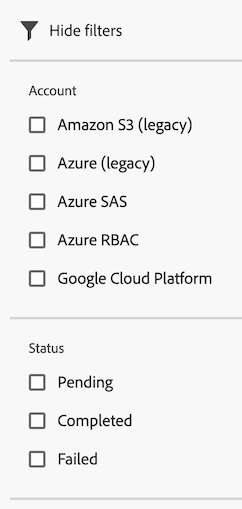
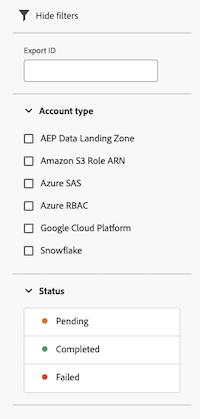
Updates and cleanup

diff --git a/help/components/exports/manage-exports.md b/help/components/exports/manage-exports.md
@@ -31,8 +31,8 @@ To find information you need, you can either filter the list of exports or searc
 
    |Filter | Description |
    |---------|----------|
-   | [!UICONTROL **Account type**] | The account type that the export is associated with. The following account types are available: <ul><li>[!UICONTROL **AEP Data Landing Zone**]</li><li>[!UICONTROL **Amazon S3 Role ARN**]</li><li>[!UICONTROL **Google Cloud Platform**]</li><li>[!UICONTROL **Azure SAS**]</li><li>[!UICONTROL **Azure RBAC**]</li><li>[!UICONTROL **Snowflake**]</li></ul>. | 
-   | [!UICONTROL **Status**] | The status of the export. The following statuses are available: <ul><li>[!UICONTROL **Active**]: Indicates that a scheduled export has not yet expired. </li><li>[!UICONTROL **Completed**]: Indicates that an export has successfully exported. For scheduled exports, this indicates that the schedule has expired.</li><li>[!UICONTROL **Failed**]<p>The following situations can result in a failed export. Hover over the Failed status to see details about the failure. <ul><li>Scheduled export expiration</li><li>Row limit reached for scheduled export </li></ul> </p></li></ul> | 
+   | [!UICONTROL **Account type**] | The account type that the export is associated with. The following account types are available: <ul><li>[!UICONTROL **AEP Data Landing Zone**]</li><li>[!UICONTROL **Amazon S3 Role ARN**]</li><li>[!UICONTROL **Azure SAS**]</li><li>[!UICONTROL **Azure RBAC**]</li><li>[!UICONTROL **Google Cloud Platform**]</li><li>[!UICONTROL **Snowflake**]</li></ul>. | 
+   | [!UICONTROL **Status**] | The status of the export. The following statuses are available: <ul><li>[!UICONTROL **Active**]: Indicates that a scheduled export has not yet expired, or that a one-time export has not yet completed. </li><li>[!UICONTROL **Complete**]: Indicates that an export has successfully exported. For scheduled exports, this indicates that the schedule has expired.</li><li>[!UICONTROL **Failed**]<p>The following situations can result in a failed export. Hover over the [!UICONTROL **Failed**] status to see details about the failure. <ul><li>Scheduled export expiration</li><li>Row limit reached for scheduled export </li></ul> </p></li></ul> | 
    | [!UICONTROL **Frequency**] | How often the export occurs. The following frequencies are available: <ul><li>[!UICONTROL **One time**]</li><li>[!UICONTROL **Daily**]</li><li>[!UICONTROL **Weekly**]</li><li>[!UICONTROL **Monthly**]</li><li>[!UICONTROL **Yearly**]</li></ul>|
 
    {style="table-layout:auto"}
@@ -51,7 +51,7 @@ You can edit an export's properties, format, scheduling, and location informatio
 
 1. In Customer Journey Analytics, select [!UICONTROL **Components**] > [!UICONTROL **Exports**].
 
-1. On the [!UICONTROL **Exports**] tab, select the export you want to edit.
+1. On the [!UICONTROL **Exports**] tab, select the checkbox next to the export you want to edit.
 
    This option is not available when selecting multiple exports. 
 
@@ -63,7 +63,7 @@ You can duplicate an existing export.
 
 1. In Customer Journey Analytics, select [!UICONTROL **Components**] > [!UICONTROL **Exports**].
 
-1. On the [!UICONTROL **Exports**] tab, select the export you want to duplicate.
+1. On the [!UICONTROL **Exports**] tab, select the checkbox next to the export you want to duplicate.
 
    This option is not available when selecting multiple exports. 
 
@@ -79,7 +79,7 @@ You can manually initiate an export, either for a scheduled export or a one-time
 
 1. In Customer Journey Analytics, select [!UICONTROL **Components**] > [!UICONTROL **Exports**].
 
-1. On the [!UICONTROL **Exports**] tab, select the export you want to run.
+1. On the [!UICONTROL **Exports**] tab, select the checkbox next to the export you want to run.
 
    This option is not available when selecting multiple exports. 
 
@@ -91,11 +91,11 @@ When you apply tags to an export, you can view those tags in the [!UICONTROL Tag
 
 1. In Customer Journey Analytics, select [!UICONTROL **Components**] > [!UICONTROL **Exports**].
 
-1. On the [!UICONTROL **Exports**] tab, select one or more exports that you want to tag.
+1. On the [!UICONTROL **Exports**] tab, select the checkbox next to one or more exports that you want to tag.
 
-1. Select [!UICONTROL **Tag**].
+1. Select [!UICONTROL **Edit tags**].
 
-1. In the Tag export dialog, type the name a tag to create a new tag, or choose an existing tag from the drop-down menu.
+1. In the [!UICONTROL **Tag export**] dialog, type the name of a tag to create a new tag, or choose an existing tag from the drop-down menu.
 
    Any common tags between the selected exports are shown in the tag dialog. <!-- what happens if one export has a tag and another doesn't? Is the tag removed if you don't select it? I'm guessing not, but maybe check -->
 
@@ -107,7 +107,7 @@ You can delete exports from the Exports page. Scheduled exports that are deleted
 
 1. In Customer Journey Analytics, select [!UICONTROL **Components**] > [!UICONTROL **Exports**].
 
-1. On the [!UICONTROL **Exports**] tab, select one or more exports that you want to delete.
+1. On the [!UICONTROL **Exports**] tab, select the checkbox next to one or more exports that you want to delete.
 
 1. Select [!UICONTROL **Delete**], then select [!UICONTROL **Delete**] when you see the confirmation message.
 
@@ -117,17 +117,19 @@ You can add or remove columns on the [!UICONTROL Exports] tab to configure what 
 
 Select a column header to sort the exports by that column. By default, exports are sorted by the date and time the export was last modified.
 
-1. Select the **Customize table** icon ![customize table](assets/customize-table-icon.png) in the upper-right of the [!UICONTROL Exports] page.
+1. In Customer Journey Analytics, select [!UICONTROL **Components**] > [!UICONTROL **Exports**].
+
+1. On the [!UICONTROL **Exports**] tab, select the **Customize table** icon ![customize table](assets/customize-table-icon.png) in the upper-right of the [!UICONTROL Exports] page.
 
    The following columns are available:
 
    |Available column | Description |
    |---------|----------|
    | Name | The name of the export. Users give exports a name when they create them, as described in [Export Customer Journey Analytics reports to the cloud](/help/analysis-workspace/export/export-cloud.md).  | 
-   | ID | The ID automatically assigned to the export when it is created. <!-- True? --> | 
-   | Status | The status of the export. Available statuses are [!UICONTROL Active], [!UICONTROL Paused], [!UICONTROL Completed], and [!UICONTROL Failed].<p> **Note:** For information about troubleshooting failed exports, see [Troubleshoot failed exports](/help/components/exports/troubleshoot-exports.md).</p> |
-   | Data view name | The name of the data view associated with the export. Users can select the data view when they create the export, as described in [Export Customer Journey Analytics reports to the cloud](/help/analysis-workspace/export/export-cloud.md). |
-   | Status | The status of the export. Available statuses are [!UICONTROL Pending], [!UICONTROL Delivered], and [!UICONTROL Failed]. |
+   | ID | The ID automatically assigned to the export when it is created. <!-- True? --> |
+   | Data view name | The name of the data view associated with the export. Users can select the data view when they create the export, as described in [Export Customer Journey Analytics reports to the cloud](/help/analysis-workspace/export/export-cloud.md). | 
+   | Status | The status of the export. Available statuses are [!UICONTROL Active], [!UICONTROL Complete], and [!UICONTROL Failed].<p> **Note:** For information about troubleshooting failed exports, see [Troubleshoot failed exports](/help/components/exports/troubleshoot-exports.md).</p> |
+   | Tags | Displays any tags that are applied to the export. For information about how to apply tags to an export, see [Tag an export](#tag-an-export). |
    | Table size (last send) | The size of the export the last time it was sent.  |
    | Created by | The user who created the export. |
    | Created | The date and time the export was created. <!-- true? --> |
@@ -138,7 +140,6 @@ Select a column header to sort the exports by that column. By default, exports a
    | Last sent | The last time the export was sent. |
    | Last modified | The last time the export was modified. Items on the Exports page are sorted by this column by default. |
    | Account type | The type of cloud account where the data was exported. Available account types are [!UICONTROL Amazon S3 Role ARN], [!UICONTROL Google Cloud Platform], [!UICONTROL Azure SAS], [!UICONTROL Azure RBAC], [!UICONTROL Snowflake], and [!UICONTROL Adobe Experience Platform].  |
-   | Tags | Displays any tags that are applied to the export. For information about how to apply tags to an export, see [Tag an export](#tag-an-export). |
 
    {style="table-layout:auto"}
 

diff --git a/help/components/exports/manage-export-logs.md b/help/components/exports/manage-export-logs.md
@@ -31,8 +31,9 @@ To find information you need, you can either filter the list of logs or search f
 
    |Filter | Description |
    |---------|----------|
-   | [!UICONTROL **Account type**] | The account type that the log is associated with. The following account types are available: <ul><li>[!UICONTROL **Adobe Experience Platform Data Landing Zone**]</li><li>[!UICONTROL **Amazon S3 Role ARN**]</li><li>[!UICONTROL **Google Cloud Platform**]</li><li>[!UICONTROL **Azure SAS**]</li><li>[!UICONTROL **Azure RBAC**]</li><li>[!UICONTROL **Snowflake**]</li></ul>. | 
-   | [!UICONTROL **Status**] | The status of the export. The following statuses are available: <ul><li>[!UICONTROL **Pending**]: A specific instance of an export has been started but is not yet complete.<p>Re-running an export that has a status of Pending will delay the export process.</p></li><li>[!UICONTROL **Completed**]: A specific instance of an export has finished processing and is available in the export account.</li><li>[!UICONTROL **Failed**]<p>The following situations can result in a failed export. Hover over the Failed status to see details about the failure. <ul><li>Scheduled export expiration</li><li>Row limit reached for scheduled export </li></ul> </p></li></ul> | 
+   | [!UICONTROL **Export ID**] | Specify the export ID of the export log you want to view. |
+   | [!UICONTROL **Account type**] | The account type that the log is associated with. The following account types are available: <ul><li>[!UICONTROL **AEP Data Landing Zone**]</li><li>[!UICONTROL **Amazon S3 Role ARN**]</li><li>[!UICONTROL **Azure SAS**]</li><li>[!UICONTROL **Azure RBAC**]</li><li>[!UICONTROL **Google Cloud Platform**]</li><li>[!UICONTROL **Snowflake**]</li></ul>. | 
+   | [!UICONTROL **Status**] | The status of the export. The following statuses are available: <ul><li>[!UICONTROL **Pending**]: A specific instance of an export has been started but is not yet complete.<p>Re-running an export that has a status of Pending will delay the export process.</p></li><li>[!UICONTROL **Complete**]: A specific instance of an export has finished processing and is available in the export account.</li><li>[!UICONTROL **Failed**]<p>The following situations can result in a failed export. Hover over the Failed status to see details about the failure. <ul><li>Scheduled export expiration</li><li>Row limit reached for scheduled export </li></ul> </p></li></ul> | 
 
    {style="table-layout:auto"}
 
@@ -42,7 +43,7 @@ To find information you need, you can either filter the list of logs or search f
 
 1. Select the [!UICONTROL **Logs**] tab.
 
-1. In the search tab, begin typing any information associated with the log you're searching for. You can search for data from any column available in the table. 
+1. In the search field, begin typing any information associated with the log you're searching for. You can search for data from any column available in the table. 
 
 <!-- removed for MVP: Retry an export You can re-run the export associated with the selected log, using the data as it was on the day the log was originally exported. This is useful when selecting a log that show a failed export or when selecting a log that was accidentally deleted. 
 
@@ -68,11 +69,11 @@ This option is not available when selecting multiple logs.
 
 1. Locate the log that is associated with the export you want to edit.
 
-1. Select the **Edit export** icon ![export log icon](assets/export-icon.png) next to the log.
+1. Select the **Edit export** icon ![export log icon](assets/export-icon.png) next to the log name.
 
    Or
 
-   Select the log, then select [!UICONTROL **Edit export**].
+   Select the checkbox next to the log, then select [!UICONTROL **Edit export**].
 
 ## Configure columns
 

diff --git a/help/components/exports/manage-export-locations.md b/help/components/exports/manage-export-locations.md
@@ -31,7 +31,7 @@ To find information you need, you can either filter the list of locations or sea
 
    |Filter | Description |
    |---------|----------|
-   | [!UICONTROL **Location type**]<!--should this be changed to Account type?--> | The account type that the location is associated with. The following account types can be available: <ul><li>[!UICONTROL **AEP Data Landing Zone**]</li><li>[!UICONTROL **Amazon S3 Role ARN**]</li><li>[!UICONTROL **Google Cloud Platform**]</li><li>[!UICONTROL **Azure SAS**]</li><li>[!UICONTROL **Azure RBAC**]</li><li>[!UICONTROL **Snowflake**]</li></ul> | 
+   | [!UICONTROL **Location type**]<!--should this be changed to Account type?--> | The account type that the location is associated with. The following account types can be available: <ul><li>[!UICONTROL **AEP Data Landing Zone**]</li><li>[!UICONTROL **Amazon S3 Role ARN**]</li><li>[!UICONTROL **Azure SAS**]</li><li>[!UICONTROL **Azure RBAC**]</li><li>[!UICONTROL **Google Cloud Platform**]</li><li>[!UICONTROL **Snowflake**]</li></ul> | 
    | [!UICONTROL **Account**] | The name of account that the location is associated with. |
    | [!UICONTROL **Created by**] | The email address of the user who created the location. |
 
@@ -43,7 +43,7 @@ To find information you need, you can either filter the list of locations or sea
 
 1. Select the [!UICONTROL **Locations**] tab.
 
-1. In the search tab, begin typing any information associated with the location you're searching for. You can search for data from any column available in the table.
+1. In the search field, begin typing any information associated with the location you're searching for. You can search for data from any column available in the table.
 
 ## Edit locations
 
@@ -51,7 +51,7 @@ To find information you need, you can either filter the list of locations or sea
 
 1. Select the [!UICONTROL **Locations**] tab, then select the location you want to edit.
 
-   <!-- add screenshot? -->
+   ![Edit locations](assets/locations-edit.png)
 
 1. Select [!UICONTROL **Edit**].
 
@@ -71,7 +71,7 @@ To delete a location:
 
 1. Select the [!UICONTROL **Locations**] tab, then select one or more locations that you want to delete.
 
-   <!-- add screenshot? -->
+   ![Edit locations](assets/locations-edit.png)
 
 1. Select [!UICONTROL **Delete**], then select [!UICONTROL **Delete**] again on the confirmation dialog.
 
@@ -86,6 +86,20 @@ To delete a location:
 1. Select [!UICONTROL **View details**] on the account that you want to edit.
 
 1. Make any desired changes, then select [!UICONTROL **Save**].
+
+## View account keys
+
+After you create an account, you can view any associated account keys for that account. You might need to view this information if you didn't finish configuring the account with your cloud provider [when you originally configured the account](/help/components/exports/cloud-export-accounts.md). 
+
+To view keys associated with an export account:
+
+1. In Customer Journey Analytics, select [!UICONTROL **Components**] > [!UICONTROL **Exports**].
+
+1. Select the [!UICONTROL **Location accounts**] tab.
+
+   ![Accounts page](assets/account-page.png)
+
+1. Select the 3-dot icon on the account that you want to edit, then select [!UICONTROL **Account keys**]. 
 
 ## Delete accounts
 

diff --git a/help/components/exports/cloud-export-accounts.md b/help/components/exports/cloud-export-accounts.md
@@ -33,7 +33,7 @@ For information about how to manage existing accounts, including viewing, editin
 
 1. Continue with the section below that corresponds to the [!UICONTROL **Account type**] you selected.
 
-   * [Adobe Experience Platform Data Landing Zone](#adobe-experience-platform)
+   * [AEP Data Landing Zone](#adobe-experience-platform)
 
    * [Amazon S3 Role ARN](#amazon-s3-role-arn)
 
@@ -57,7 +57,7 @@ For information about how to manage existing accounts, including viewing, editin
 
    The [!UICONTROL **Export account created**] dialog displays.
 
-      <!-- add screen shot -->
+   ![Export account dialog AEP Data Landing Zone](assets/export-account-aep.png)
 
 1. Copy the contents of the [!UICONTROL **SAS URI**] field to your clipboard. Use this SAS URI to access the data that is exported from Analysis Workspace from the AEP Landing Zone.
 
@@ -81,7 +81,7 @@ For information about how to manage existing accounts, including viewing, editin
 
    The [!UICONTROL **Export account created**] dialog displays.
 
-      <!-- add screen shot -->
+   ![Export account created dialog Amazon S3 Role ARN](assets/export-account-amazons3.png)
 
 1. Copy the contents of the [!UICONTROL **User ARN**] field to your clipboard. The User ARN (Amazon Resource Name) is provided by Adobe. You must attach this user to the policy you created in Amazon S3 Role ARN. 
 
@@ -105,7 +105,7 @@ For information about how to manage existing accounts, including viewing, editin
 
    The [!UICONTROL **Export account created**] dialog displays.
 
-      <!-- add screen shot -->
+   ![Export account created dialog](assets/export-account-gcp.png)
 
 1. Copy the contents of the [!UICONTROL **Principal**] field to your clipboard, then ensure that you grant permission to the Principal to upload files to this bucket in Google Cloud Platform. <!-- add link to Google Cloud docs on how to do this --> 
 
@@ -133,7 +133,7 @@ For information about how to manage existing accounts, including viewing, editin
 
    The [!UICONTROL **Export account created**] dialog displays.
 
-      <!-- add screen shot -->
+   ![Export account created dialog](assets/export-account-azure.png)
 
 1. If you haven't already, ensure that you grant permissions to the bucket in Azure SAS. <!-- add link to Google Cloud docs on how to do this --> 
 
@@ -159,7 +159,7 @@ For information about how to manage existing accounts, including viewing, editin
 
    The [!UICONTROL **Export account created**] dialog displays.
 
-      <!-- add screen shot -->
+   ![Export account created dialog](assets/export-account-azure.png)
 
 1. If you haven't already, ensure that you grant permissions to the bucket in Azure RBAC. <!-- add link to Google Cloud docs on how to do this --> 
 
@@ -185,7 +185,7 @@ For information about how to manage existing accounts, including viewing, editin
 
    The [!UICONTROL **Export account created**] dialog displays.
 
-      <!-- add screen shot -->
+   ![Export account created dialog](assets/export-account-snowflake.png)
 
 1. Copy the contents of the [!UICONTROL **Public key**] field to your clipboard. The Public key is provided by Adobe. 
 
